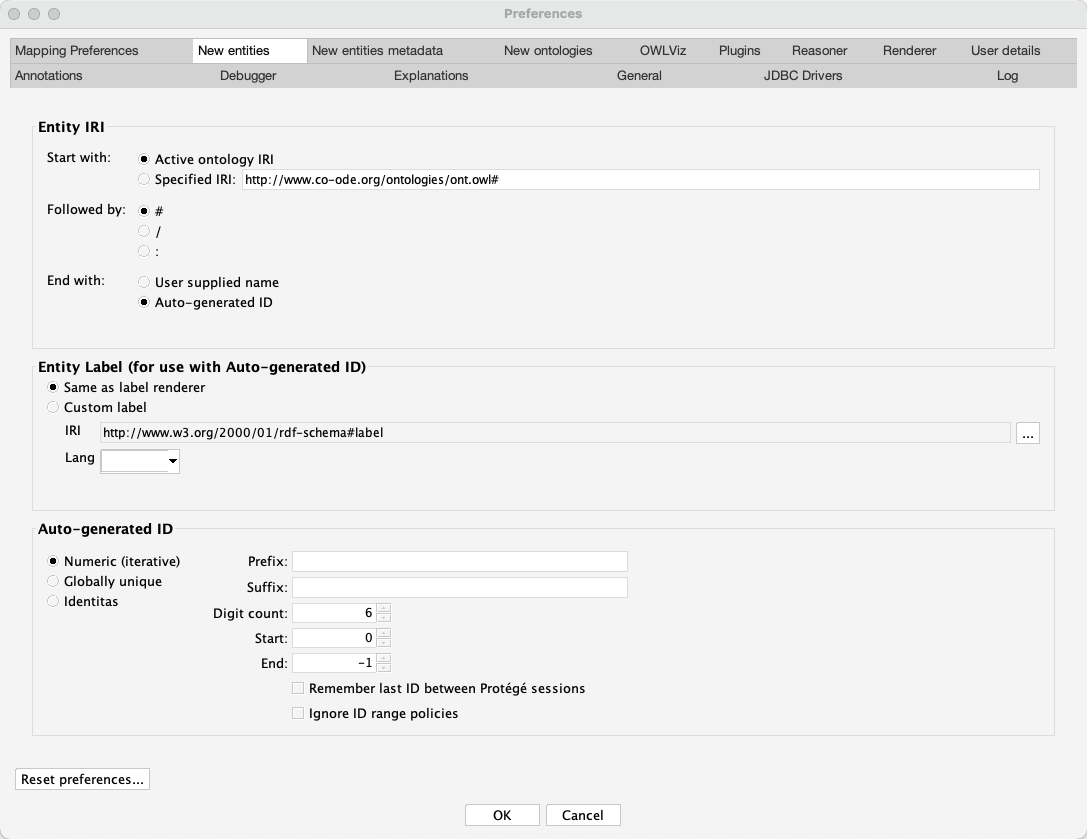
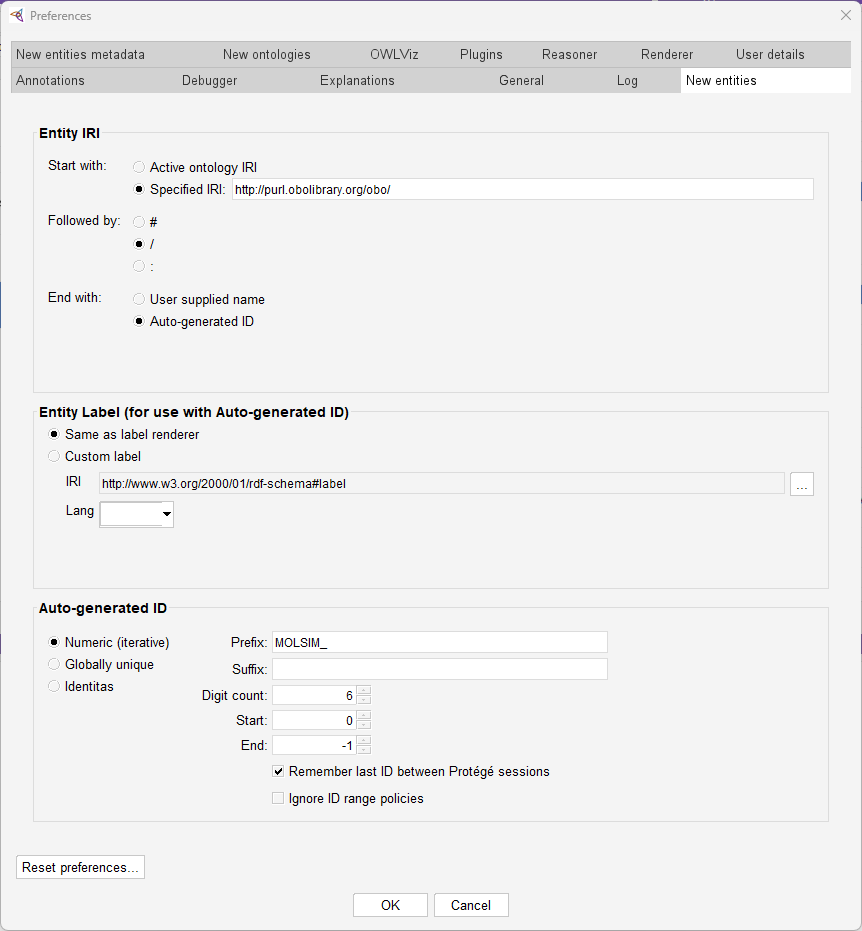
protege editing preference update

diff --git a/documentation/EditingMOLSIM.md b/documentation/EditingMOLSIM.md
@@ -1,0 +1,62 @@
+# molsim: Molecular Simulation Ontology
+
+## Introduction
+
+molsim is an interoperable domain ontology designed to semantically represent platform-agnostic molecular simulations as FAIR (Findable, Accessible, Interoperable, and Reusable) datasets. This ontology aims to standardize the representation of molecular simulation data, processes, and methodologies across different platforms and tools.
+
+## Scope
+
+The ontology covers various aspects of molecular simulations, including:
+
+- Simulation processes (preparation, execution, analysis)
+- Force fields and models
+- Algorithms (thermostats, barostats, constraining algorithms)
+- Materials and solvation models
+- Interaction types and calculation methods
+
+## Opening the Ontology
+
+You can open and explore molsim using Protégé, a free, open-source ontology editor. Protégé is available in both desktop and web versions.
+
+## Opening the Ontology
+
+### IMPORTANT! 
+To edit (adding new terms) in MOLSIM, please only do so in the `src/ontology/molsim-edit.owl` file. 
+The rest should be taken care with ODK commands.
+
+For importing new terms or adding components that are not covered by imports, plese refer to the custom import or adding components manual, respectively. 
+
+### Desktop Version
+
+1. Download and install Protégé desktop from: https://protege.stanford.edu/
+2. Launch Protégé
+3. Go to File > Open
+4. Navigate to the location of the `src/ontology/molsim-edit.owl` file and open it
+5. Go to Protégé > Settings, on the Preferences window, go to the "New entities" tab, and set the parameters to the following values:
+   
+     ![protege_preferences.png](documentation/images/protege_preferences.png)
+   
+   
+   
+   
+
+### Web Version - not recommended
+
+1. Visit WebProtégé: https://webprotege.stanford.edu/
+2. Create an account or log in
+3. Click on "Create Project" or "Upload Project"
+4. Upload the `molsim-edit.owl` file
+
+Note: WebProtégé does not support reasoner. Please use the desktop version instead to ensure proper logical checks.
+
+## Contributing
+
+We welcome contributions to improve and expand molsim. Please feel free to submit issues or pull requests to our repository.
+
+## License
+
+https://creativecommons.org/licenses/by-nc-sa/4.0/
+
+## Contact
+
+f.musyaffa (at) fz-juelich (dot) de
